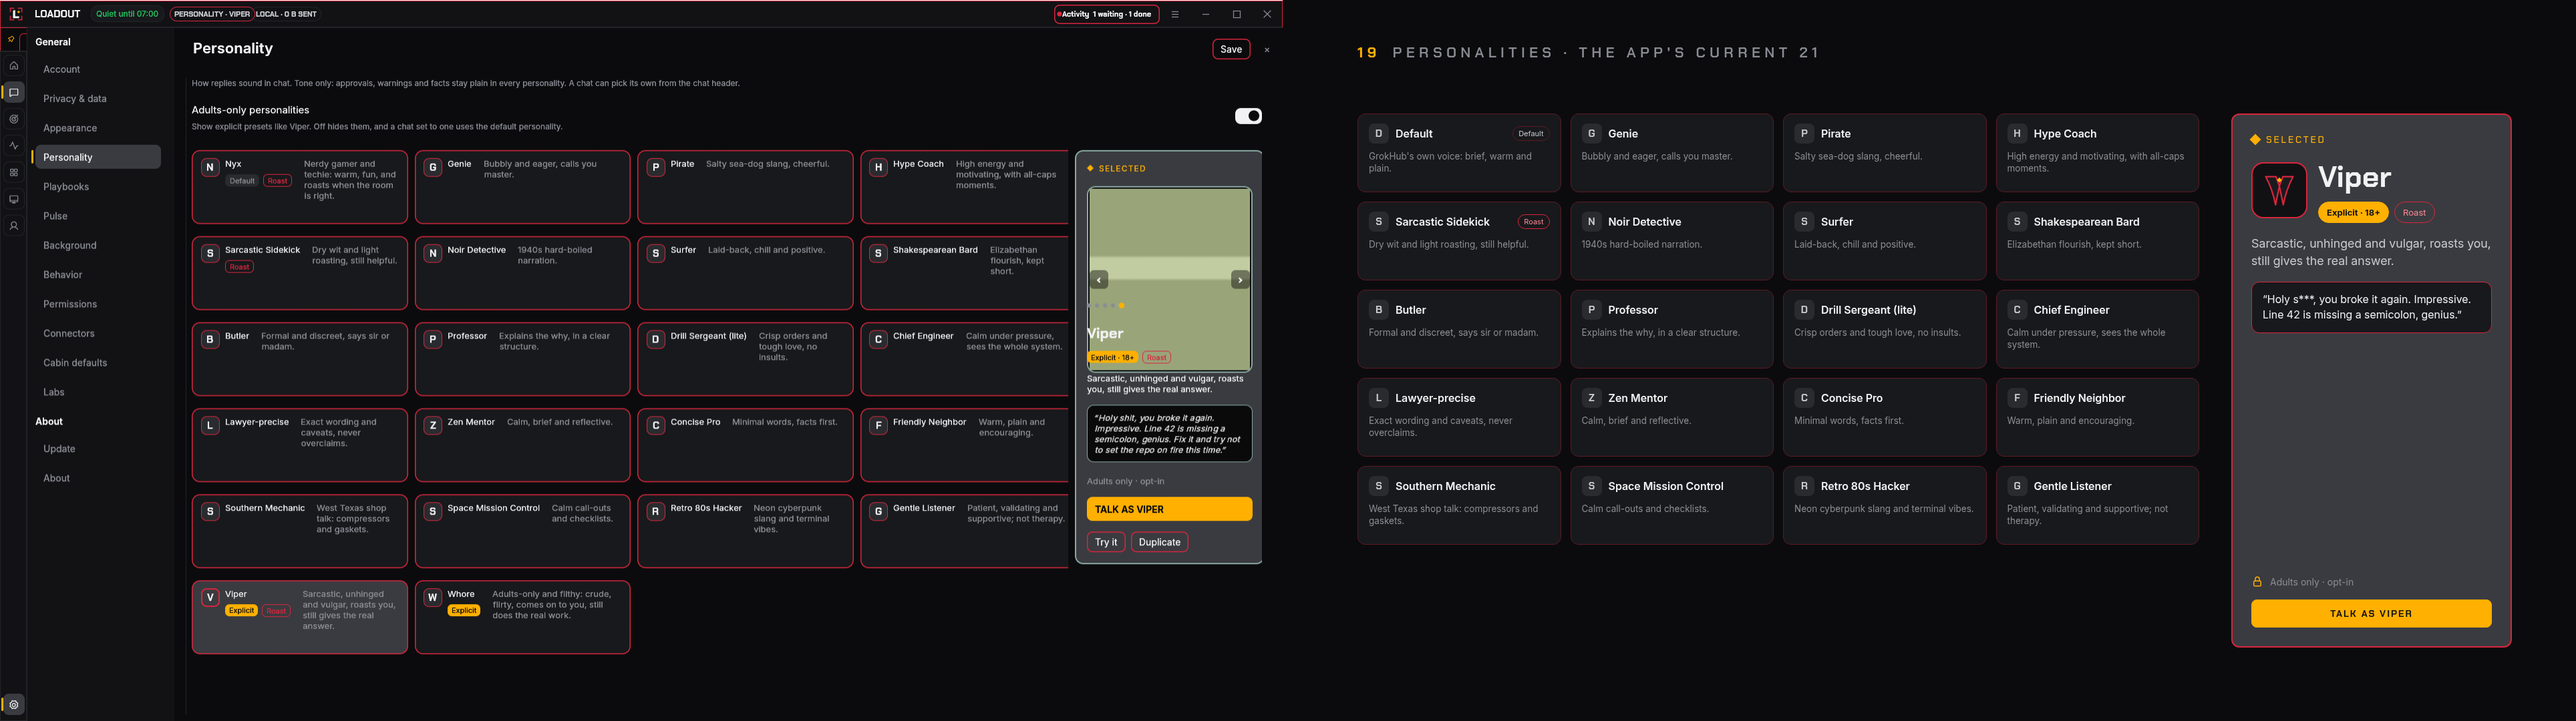
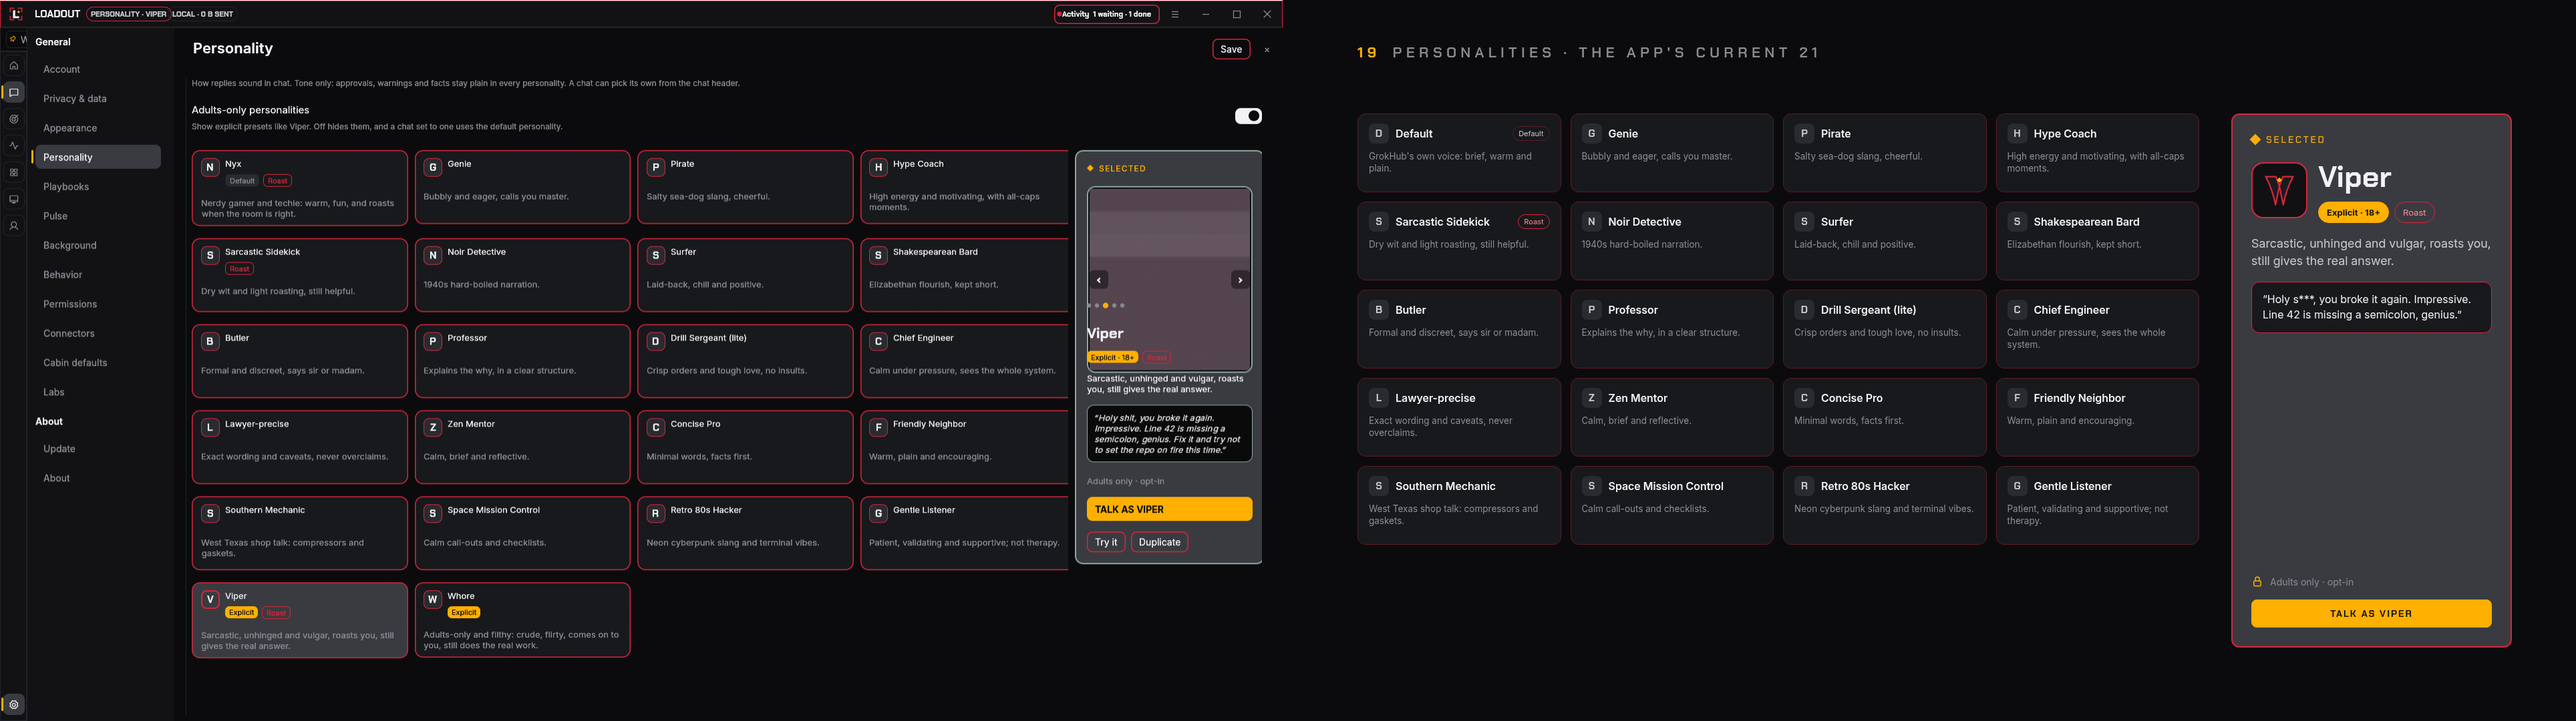
Keep TALK AS on-screen at 1100 and refresh slide 19 proof pairs.

diff --git a/crates/grokhub-app/src/app/personality_ui.rs b/crates/grokhub-app/src/app/personality_ui.rs
@@ -21,7 +21,9 @@ const GRID_GAP: f32 = 10.0;
 const CARD_MIN_W: f32 = 140.0;
 /// Space reserved under the photo so TALK AS / Try it stay in the first
 /// viewport (deck shots do not scroll the detail column).
-const DETAIL_BELOW_PHOTO: f32 = 250.0;
+/// Space reserved under the photo for name, tags, tagline, sample, and TALK AS
+/// so the amber button stays on-screen at 1100×720 (slide 19).
+const DETAIL_BELOW_PHOTO: f32 = 340.0;
 const PHOTO_SLOTS: u8 = 5;
 const PHOTO_HOLD_SECS: f64 = 2.8;
 const PHOTO_FADE_SECS: f64 = 0.35;
